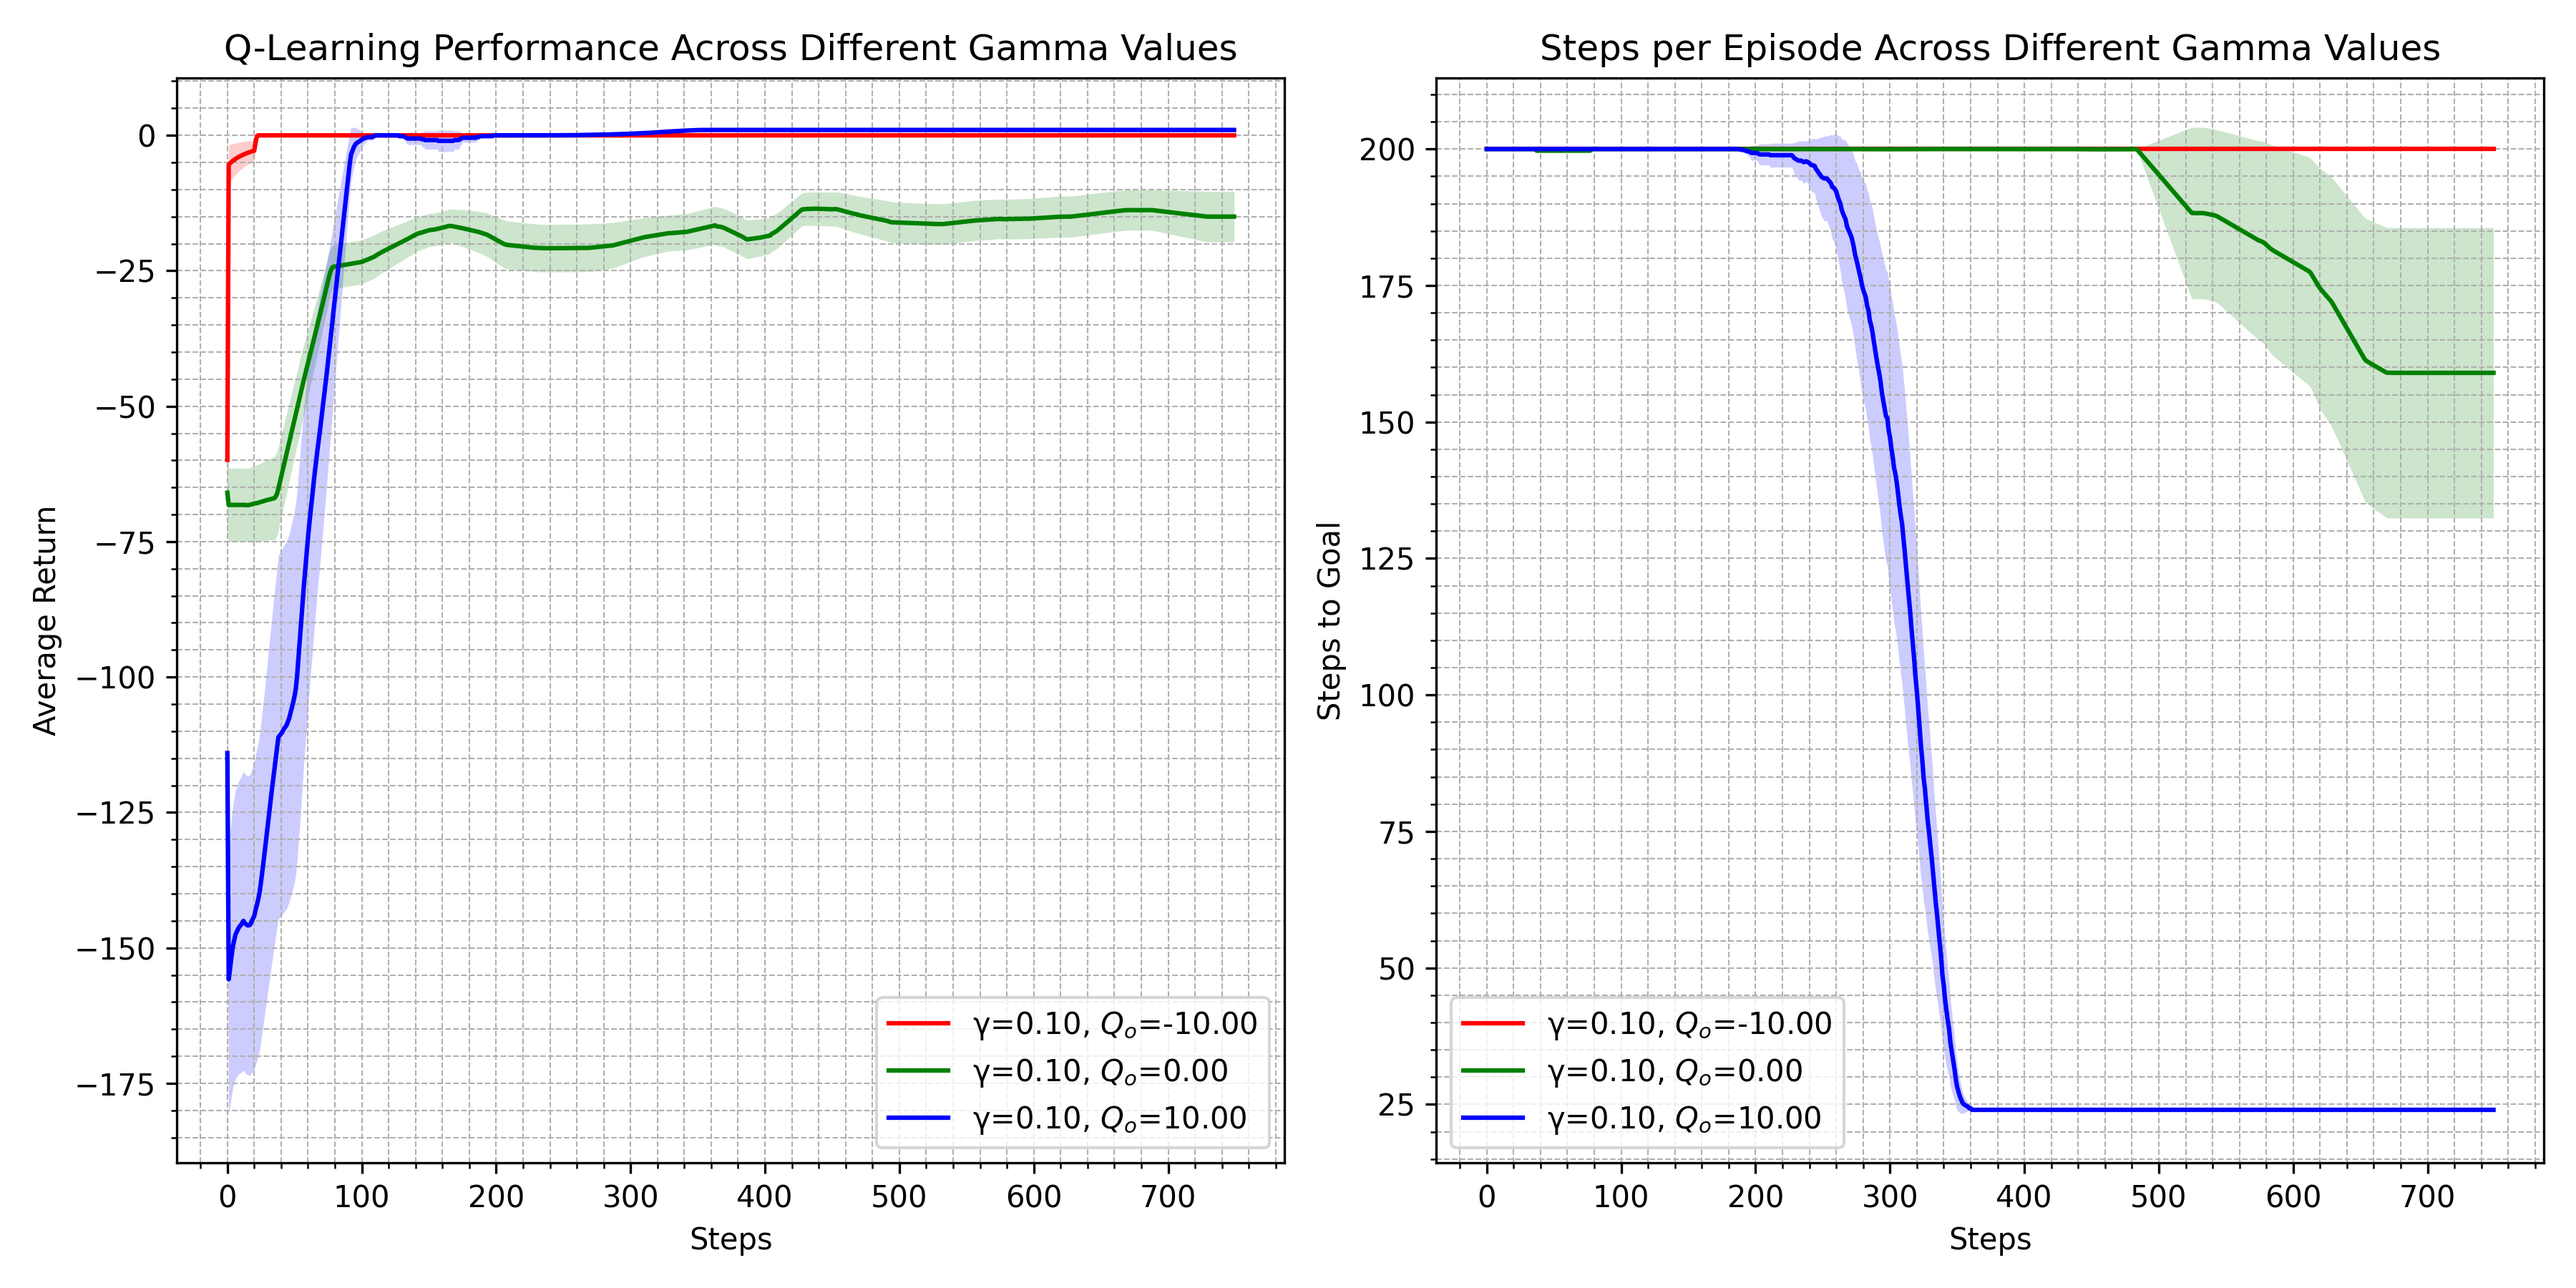
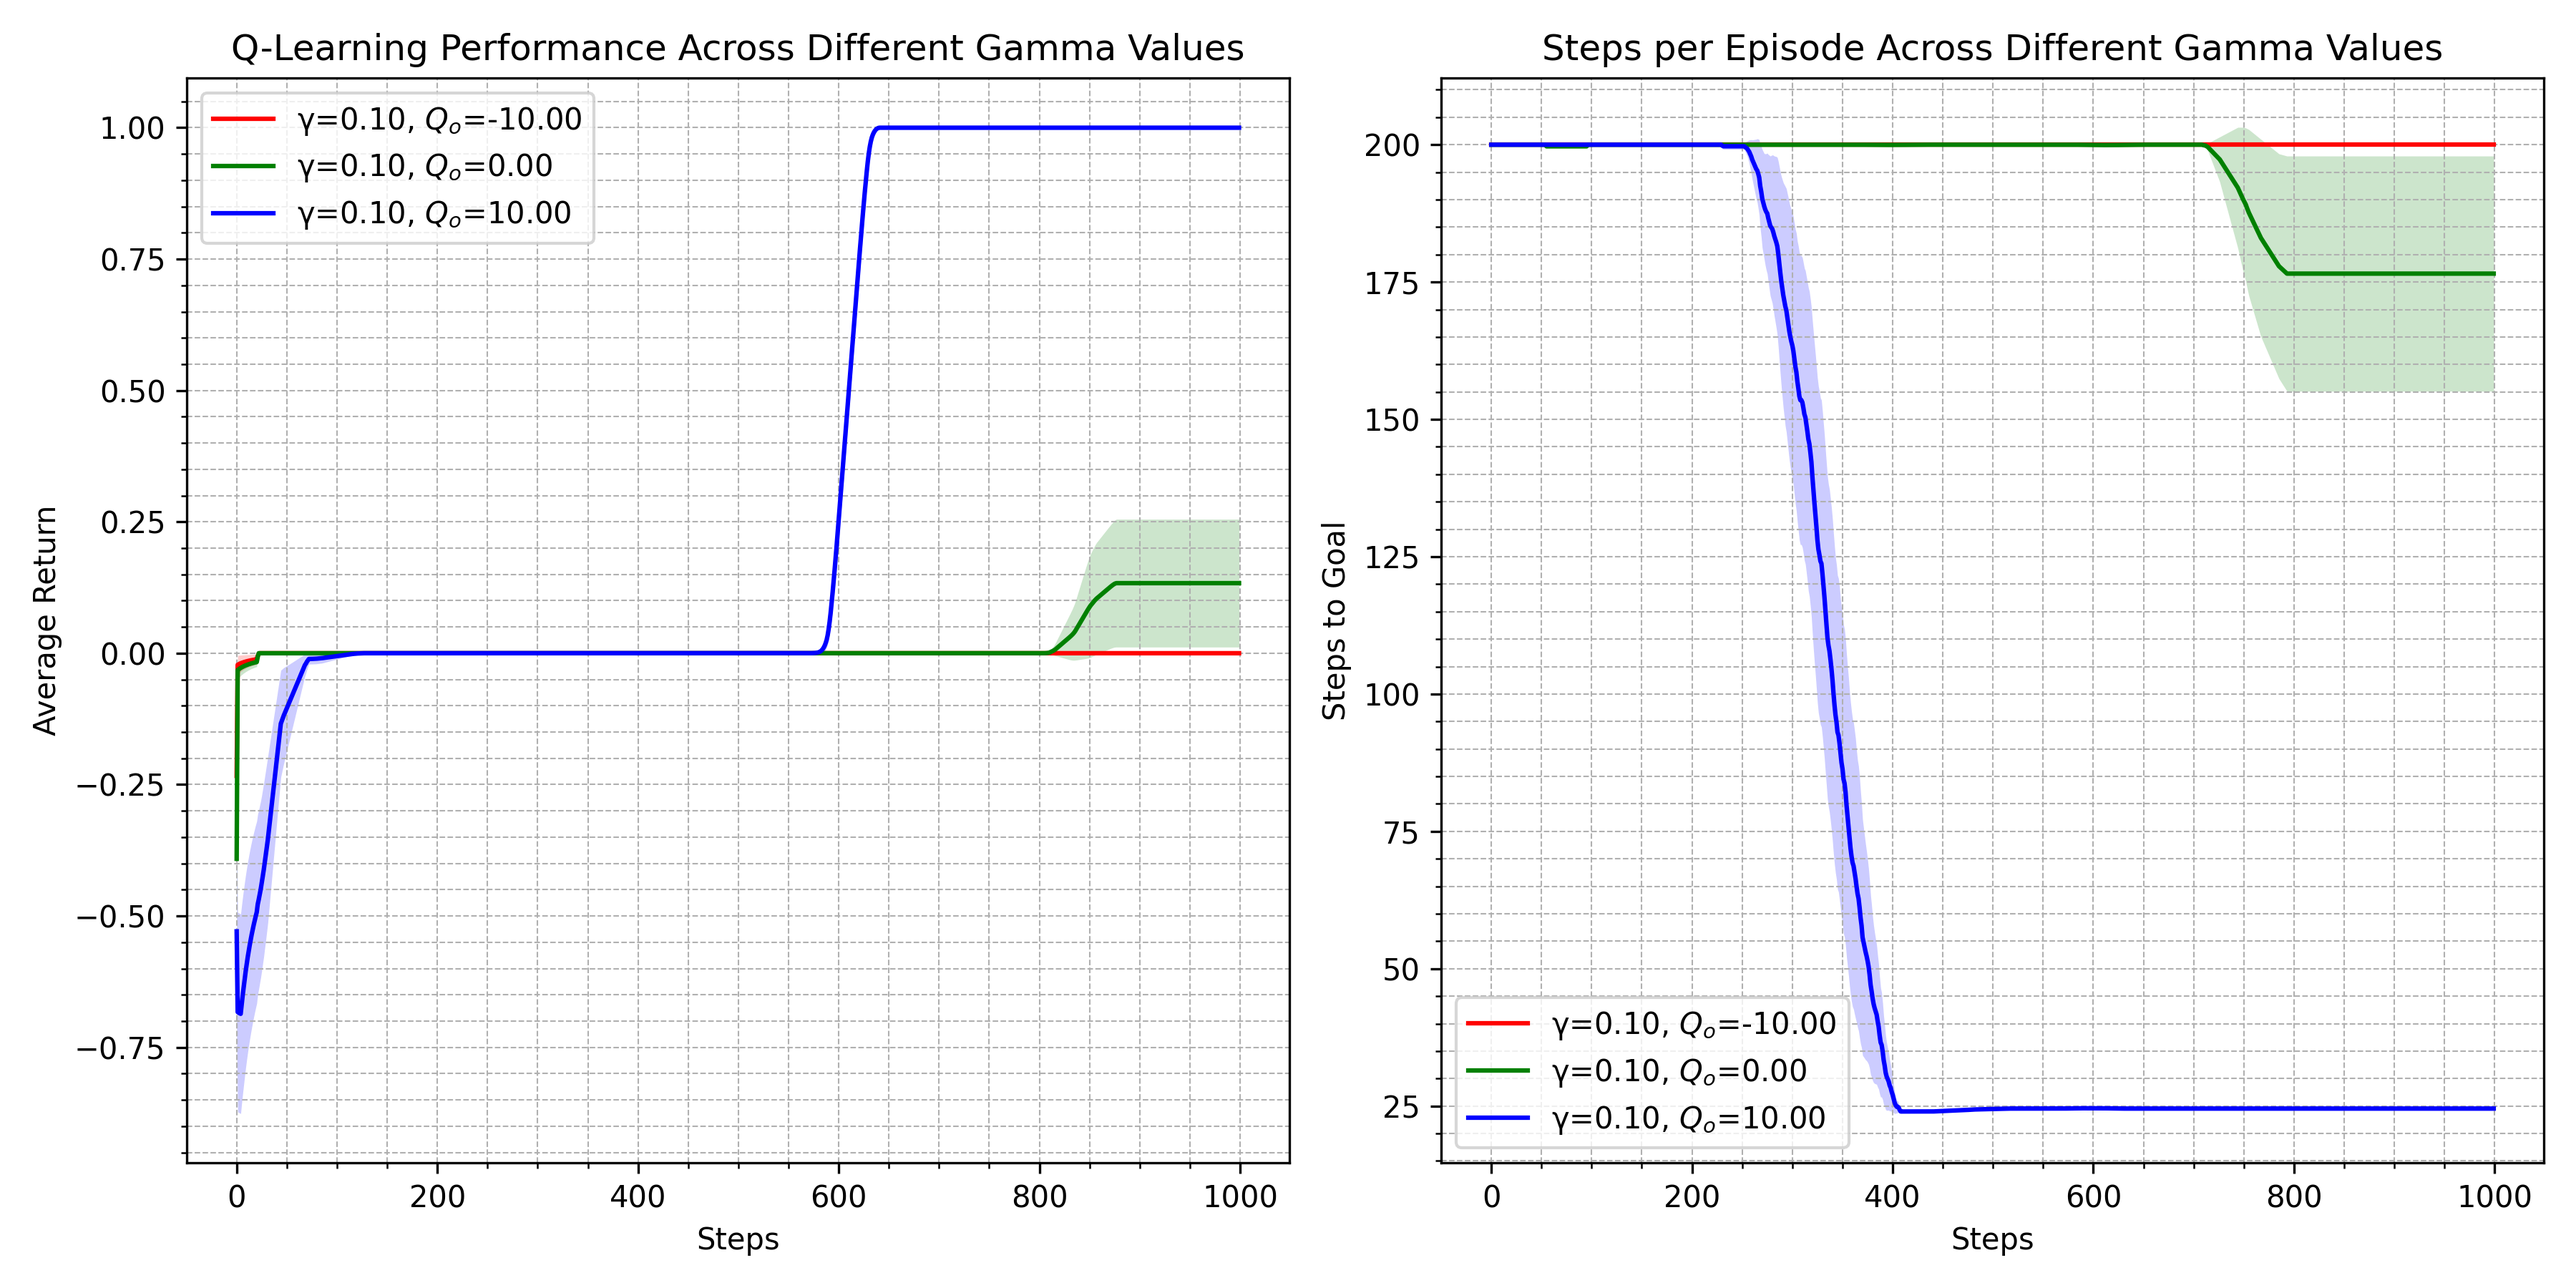
average return with more steps added

Changed region(s): [[0.0311, 0.0311, 0.9956, 0.9644], [0.5289, 0.84, 0.56, 0.8711]]

diff --git a/experiments/adaptive_gamma_q_learning.py b/experiments/adaptive_gamma_q_learning.py
@@ -65,7 +65,7 @@ def expected_return(env, Q, gamma, episodes=1):
             a = eps_greedy_action(Q, s, 0.0)
             s_next, r, terminated, truncated, _ = env.step(a)
             done = terminated or truncated
-            G[e] += r
+            G[e] += gamma**t * r
             s = s_next
             t += 1
             if done:
@@ -139,7 +139,7 @@ def error_shade_plot(ax, data, stepsize, smoothing_window=1, **kwargs):
 
 alpha = 0.5
 eps = 1.0
-max_steps = 75000
+max_steps = 100000
 eval_steps = 100
 
 init_values = [-10.0, 0.0, 10.0]
@@ -197,7 +197,7 @@ for i, gamma in enumerate(gamma_values):
         axs[0].set_ylabel("Average Return", fontsize=10)
         axs[0].set_title("Q-Learning Performance Across Different Gamma Values")
         axs[0].legend()
-        # axs[0].set_ylim([-5,1.4])
+        axs[0].set_ylim([-5,1.4])
 
         error_shade_plot(
             axs[1],
@@ -218,234 +218,3 @@ for i, gamma in enumerate(gamma_values):
 plt.savefig("adaptive_gamma_q.png", dpi=300)
 plt.ioff()
 plt.show()
-
-
-# import gymnasium as gym
-# from gym_simplegrid.envs import SimpleGridEnv
-# import numpy as np
-# import matplotlib.pyplot as plt
-
-# np.set_printoptions(precision=3)
-
-# obstacle_map = [
-#     "00000",
-#     "00000",
-#     "00000",
-#     "00000",
-#     "00000",
-# ]
-
-# length = len(obstacle_map)
-# width = len(obstacle_map[0])
-
-# options ={
-#     'start_loc': (length - 1, 0),
-#     'goal_loc': (0, width - 1)
-# }
-
-# env = gym.make(
-#     'SimpleGrid-v0', 
-#     obstacle_map=obstacle_map,
-# )
-
-# obs, _ = env.reset(seed=1, options = options)
-# rew = env.unwrapped.reward
-# done = env.unwrapped.done
-
-# n_states = (length + 1) * (width + 1)
-# n_actions = 4
-
-# R = np.zeros((n_states, n_actions))
-# P = np.zeros((n_states, n_actions, n_states))
-# T = np.zeros((n_states, n_actions))
-
-
-# def eps_greedy_probs(Q, eps):
-#     pi = np.ones((n_states, n_actions)) * (eps / n_actions)
-#     best_actions = np.argmax(Q, axis=1)
-#     for s in range(n_states):
-#         pi[s, best_actions[s]] += (1 - eps)
-#     return pi
-
-
-# def eps_greedy_action(Q, s, eps):
-#     if np.random.rand() < eps:
-#         action = np.random.choice(n_actions)
-#     else:
-#         action = np.random.choice(np.where(Q[s] == np.max(Q[s]))[0])
-#     return action
-
-
-# def expected_return(env, Q, gamma, episodes=10):
-#     G = np.zeros(episodes)
-#     episode_steps = np.zeros(episodes)
-#     for e in range(episodes):
-#         np.random.seed(e)
-#         s, _ = env.reset(seed = int(seed), options = options)
-#         done = False
-#         t = 0
-#         while not done:
-#             a = eps_greedy_action(Q, s, 0.0)
-#             s_next, r, terminated, truncated, _ = env.step(a)
-#             done = terminated or truncated
-#             G[e] += gamma**t * r
-#             s = s_next
-#             t += 1
-#             if done:
-#                 episode_steps[e] = t
-#     return G.mean(), episode_steps.mean()
-
-
-# def Q_learning(env, Q, gamma, eps, alpha, max_steps, _seed):
-#     exp_ret = []
-#     steps_per_episode = []
-#     eps_decay = eps / max_steps
-#     alpha_decay = alpha / max_steps
-#     tot_steps = 0
-#     episodes = 0
-
-#     while tot_steps < max_steps:  
-#         s, _ = env.reset(seed = _seed, options = options)
-#         a = eps_greedy_action(Q, s, eps)
-#         done = False
-
-#         while not done and tot_steps < max_steps:
-#             tot_steps += 1
-#             a = eps_greedy_action(Q, s, eps)
-#             s_next, r, terminated, truncated, _ = env.step(a)
-
-#             done = terminated or truncated
-#             eps = max(eps - eps_decay, 0.01)
-#             alpha = max(alpha - alpha_decay, 0.001)
-
-#             best_actions = np.where(Q[s_next] == np.max(Q[s_next]))[0]
-#             a_next = np.random.choice(best_actions)
-#             td_err = r + gamma * np.max(Q[s_next]) * (1 - terminated) - Q[s, a]
-
-#             Q[s,a] += alpha * td_err
-
-#             if tot_steps % 100 == 0:
-#                 G, episode_steps = expected_return(env, Q, gamma)
-#                 exp_ret.append(G)
-#                 steps_per_episode.append(episode_steps)
-
-#             if done:
-#                 episodes += 1
-#                 if adaptive_gamma:
-#                     gamma = min(gamma + episodes * gamma / max_steps, 0.99)
-
-#             s = s_next
-#             a = a_next
-
-#     return Q, exp_ret, steps_per_episode
-
-
-# def smooth(arr, span):
-#     re = np.convolve(arr, np.ones(span * 2 + 1) / (span * 2 + 1), mode="same")
-#     re[0] = arr[0]
-#     for i in range(1, span + 1):
-#         re[i] = np.average(arr[: i + span])
-#         re[-i] = np.average(arr[-i - span:])
-#     return re
-
-
-# def error_shade_plot(ax, data, stepsize, smoothing_window=1, **kwargs):
-#     y = np.nanmean(data, 0)
-#     x = np.arange(len(y))
-#     x = [stepsize * step for step in range(len(y))]
-#     # if smoothing_window > 1:
-#     #     y = smooth(y, smoothing_window)
-
-#     (line,) = ax.plot(x, y, **kwargs)
-#     error = np.nanstd(data, axis=0)
-#     # if smoothing_window > 1:
-#     #     error = smooth(error, smoothing_window)
-#     error = 1.96 * error / np.sqrt(data.shape[0])
-#     ax.fill_between(x, y - error, y + error, alpha=0.2, linewidth=0.0, color=line.get_color())
-
-
-# alpha = 0.1
-# eps = 1.0
-# max_steps = 50000
-
-# init_values = [0.0, 5.0]#, 10.0]
-# gamma_values = [0.99]#[0.1, 0.25, 0.5, 0.75, 0.8, 0.9, 0.99]
-# seeds = np.arange(30)
-
-# adaptive_gamma = True
-# if adaptive_gamma:
-#     gamma_values = [0.1]
-
-# results_exp_ret = np.zeros((
-#     len(gamma_values),
-#     len(init_values),
-#     len(seeds),
-#     max_steps // 100,
-# ))
-
-# results_steps= np.zeros((
-#     len(gamma_values),
-#     len(init_values),
-#     len(seeds),
-#     max_steps // 100,
-# ))
-
-# fig, axs = plt.subplots(1, 2, figsize=(12, 6))
-# plt.ion()
-# plt.show()
-
-# for ax in axs:
-#     ax.set_prop_cycle(color=["red", "green", "blue", "black", "orange", "cyan", "brown", "gray", "pink"])
-#     ax.set_xlabel("Steps", fontsize=10)
-#     ax.grid(True, which="both", linestyle="--", linewidth=0.5)
-#     ax.minorticks_on()
-
-# env = gym.make(
-#     'SimpleGrid-v0', 
-#     obstacle_map=obstacle_map,
-# )
-
-# for i, gamma in enumerate(gamma_values):
-#     for j, init_value in enumerate(init_values):
-#         for seed in seeds:
-#             np.random.seed(seed)
-#             Q = np.zeros((n_states, n_actions)) + init_value
-#             Q, exp_ret, steps = Q_learning(env, Q, gamma, eps, alpha, max_steps, int(seed))
-
-#             results_exp_ret[i, j, seed] = exp_ret
-#            
-#  results_steps[i, j, seed] = steps
-
-#             print(gamma, init_value, seed)
-
-#         error_shade_plot(
-#             axs[0],
-#             results_exp_ret[i, j],
-#             stepsize=100,
-#             smoothing_window=20,
-#             label=f'γ={gamma:.2f}, $Q_o$={init_value:.2f}'
-#         )
-#         axs[0].set_ylabel("Average Return", fontsize=10)
-#         axs[0].set_title("Q-Learning Performance Across Different Gamma Values")
-#         axs[0].legend()
-#         # axs[0].set_ylim([-5,1.4])
-
-#         error_shade_plot(
-#             axs[1],
-#             results_steps[i, j],
-#             stepsize=100,
-#             smoothing_window=20,
-#             label=f'γ={gamma:.2f}, $Q_o$={init_value:.2f}'
-#         )
-#         axs[1].set_ylabel("Steps to Goal", fontsize=10)
-#         axs[1].set_title("Steps per Episode Across Different Gamma Values")
-#         axs[1].legend()
-#         # axs[1].set_ylim([0, 200]) 
-
-#         plt.tight_layout()
-#         plt.draw()
-#         plt.pause(0.001)
-
-# plt.savefig("adaptive_gamma_q.png", dpi=300)
-# plt.ioff()
-# plt.show()

diff --git a/experiments/q_learning.py b/experiments/q_learning.py
@@ -65,7 +65,7 @@ def expected_return(env, Q, gamma, episodes=1):
             a = eps_greedy_action(Q, s, 0.0)
             s_next, r, terminated, truncated, _ = env.step(a)
             done = terminated or truncated
-            G[e] += r
+            G[e] += gamma**t * r
             s = s_next
             t += 1
             if done:
@@ -133,7 +133,7 @@ def error_shade_plot(ax, data, stepsize, smoothing_window=1, **kwargs):
 
 alpha = 0.5
 eps = 1.0
-max_steps = 75000
+max_steps = 100000
 eval_steps = 100
 
 init_values = [-10.0, 0.0, 10.0]
@@ -187,7 +187,7 @@ for i, gamma in enumerate(gamma_values):
         axs[0].set_ylabel("Average Return", fontsize=10)
         axs[0].set_title("Q-Learning Performance Across Different Gamma Values")
         axs[0].legend()
-        # axs[0].set_ylim([-5,1.4])
+        axs[0].set_ylim([-5,1.4])
 
         error_shade_plot(
             axs[1],
